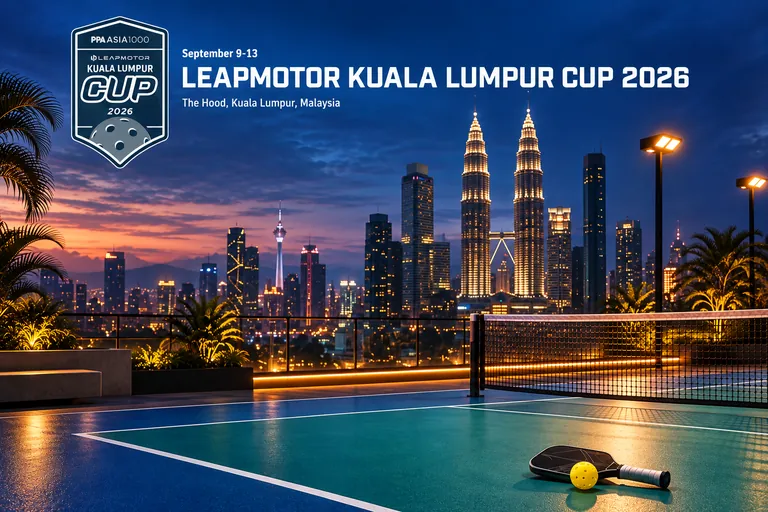
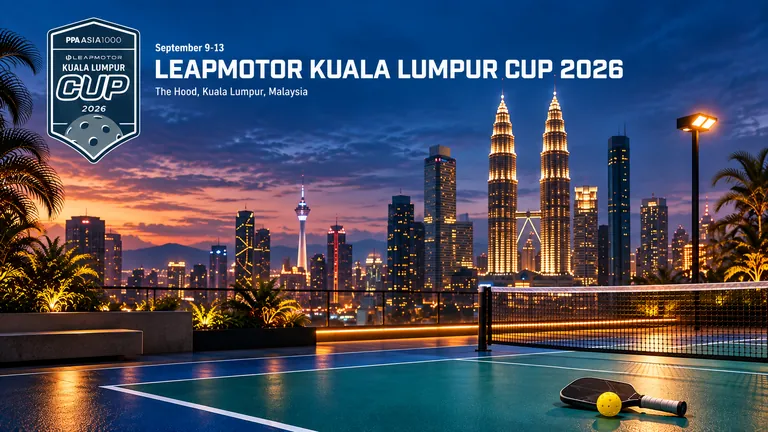
content(kl-cup): re-cut the hero to 16:9
Cuong re-exported the Kuala Lumpur Cup banner at 1672x941 to replace the 3:2
crop shipped in fed129f. Both the full image and its -768 sibling are swapped,
and image-dims.ts regenerated to 1672x941 / 768x432 — the map is what gives the
<img> its intrinsic size, so leaving it at the old 1536x1024 would reserve the
wrong box and shift the page as the image loads.

1672x941 is the exact size of the Hong Kong Slam hero, so the two widest stop
previews now match, and 1.78:1 sits closer to the 1.91:1 that Facebook and Zalo
crop to than the 1.5:1 it replaces — less of the banner is cut away in a share
card, which is the whole reason this post has its own og:image.

Alt text is unchanged: same scene, same wordmark, same strings.

Cache key pr:v110 -> pr:v111. v110 shipped og:image width and height for the 3:2
file; without the bump, cached HTML would advertise dimensions that no longer
match the bytes at that URL.

Verify: npx tsc -b --noEmit clean; blog suite 78 pass / 5 files.

diff --git a/src/content/blog/image-dims.ts b/src/content/blog/image-dims.ts
@@ -40,8 +40,8 @@ export const BLOG_IMAGE_DIMS: Record<string, readonly [number, number]> = {
   "/images/blog/khoi-dong-tranh-chan-thuong-giay-san.webp": [1200, 675],
   "/images/blog/khoi-dong-tranh-chan-thuong-pickleball-hero-768.webp": [768, 432],
   "/images/blog/khoi-dong-tranh-chan-thuong-pickleball-hero.webp": [1600, 900],
-  "/images/blog/kuala-lumpur-cup-2026-preview-hero-768.webp": [768, 512],
-  "/images/blog/kuala-lumpur-cup-2026-preview-hero.webp": [1536, 1024],
+  "/images/blog/kuala-lumpur-cup-2026-preview-hero-768.webp": [768, 432],
+  "/images/blog/kuala-lumpur-cup-2026-preview-hero.webp": [1672, 941],
   "/images/blog/loi-thuong-gap-khi-choi-pickleball-hero-768.webp": [768, 404],
   "/images/blog/loi-thuong-gap-khi-choi-pickleball-hero.webp": [1729, 910],
   "/images/blog/luat-pickleball-co-ban-hero-768.webp": [768, 429],

diff --git a/functions/_middleware.ts b/functions/_middleware.ts
@@ -1250,7 +1250,9 @@ export const onRequest: PagesFunction<Env> = async (context) => {
   // name from "Kuala Lumpur Cup" to the official "Leapmotor Kuala Lumpur Cup".
   // v110 (2026-09-08): hero image wired on the Kuala Lumpur Cup preview, so
   // og:image moves off the site-wide fallback on both the EN and VI URLs.
-  const cacheKey = `pr:v110:${url.pathname}`;
+  // v111 (2026-09-08): the KL Cup hero was re-cut to 16:9, so the og:image
+  // dimensions cached under v110 no longer match the file being served.
+  const cacheKey = `pr:v111:${url.pathname}`;
   const noCache = url.searchParams.get("nocache") === "1";
 
   if (!noCache && env.PRERENDER_CACHE) {
